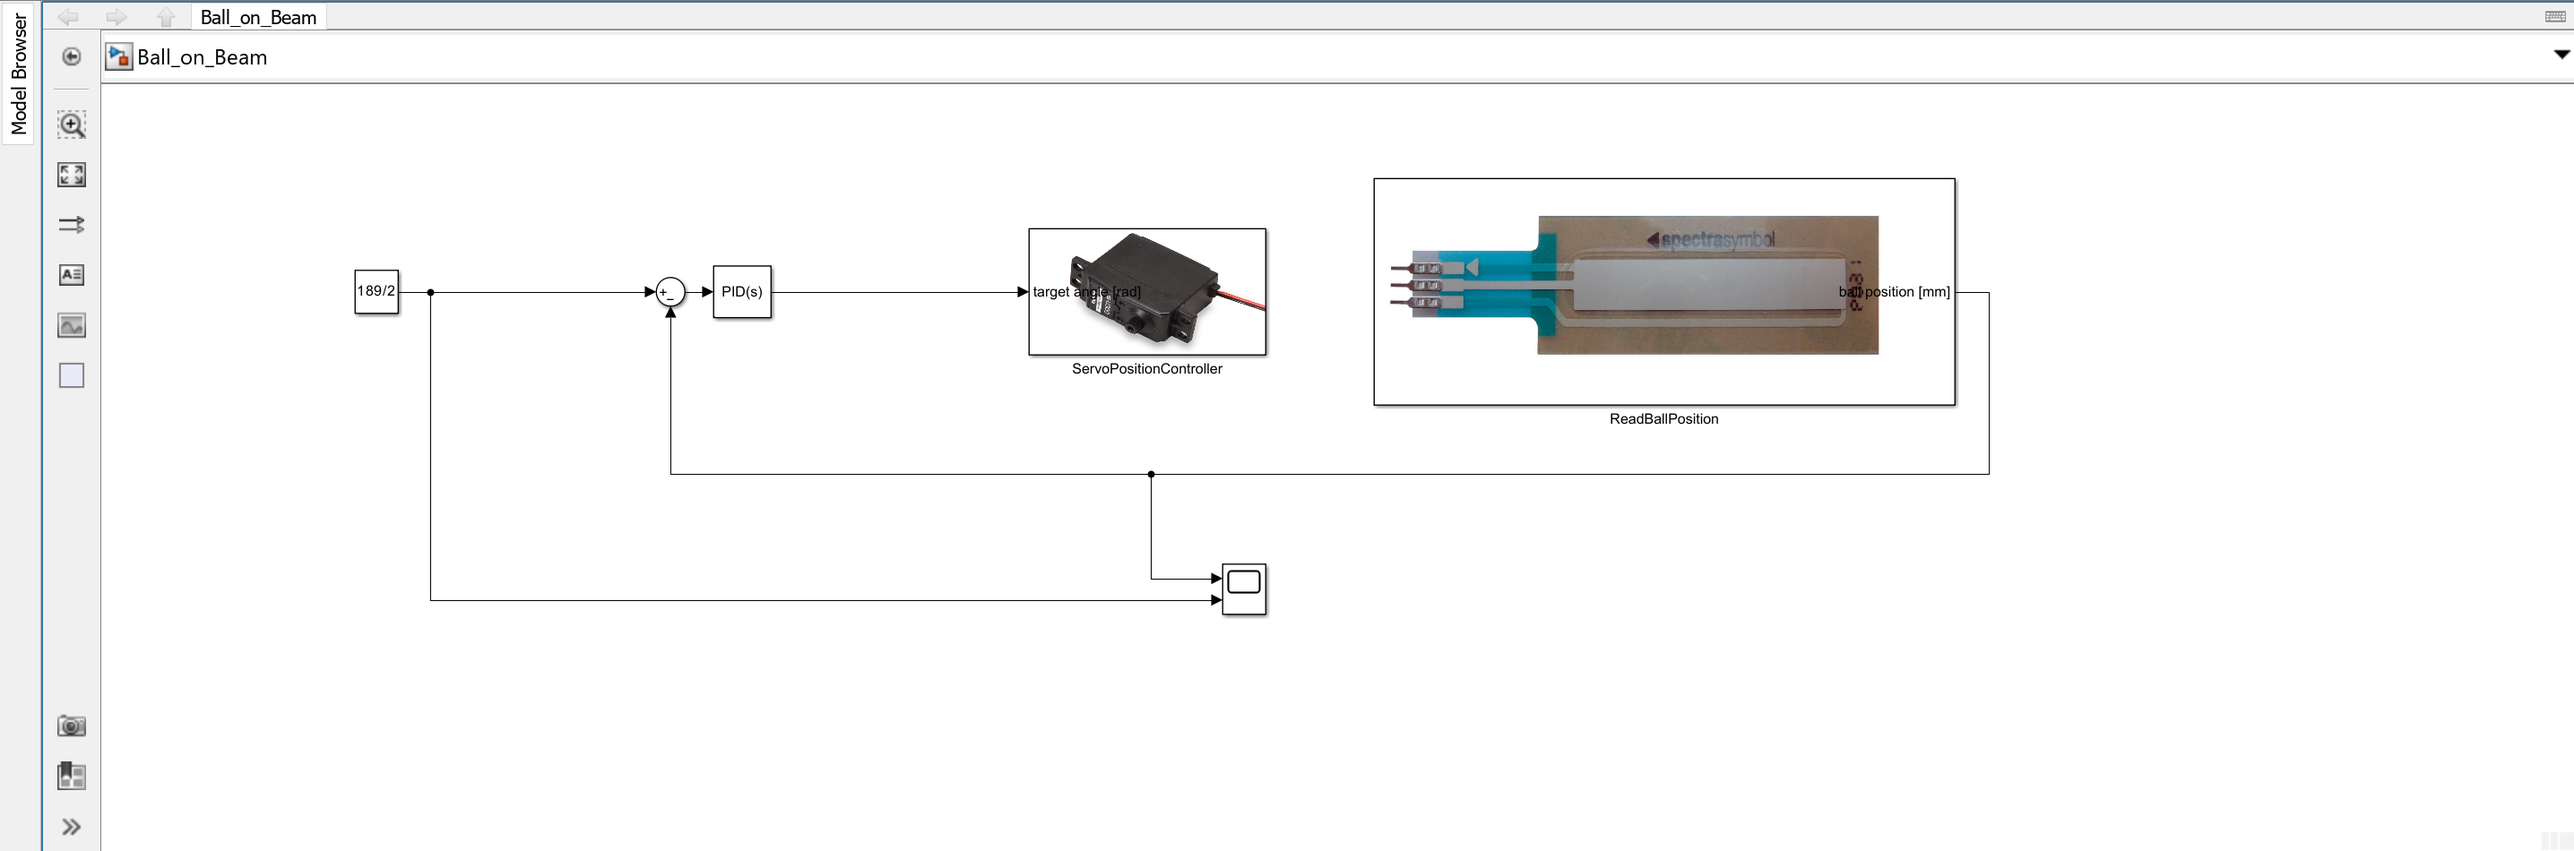
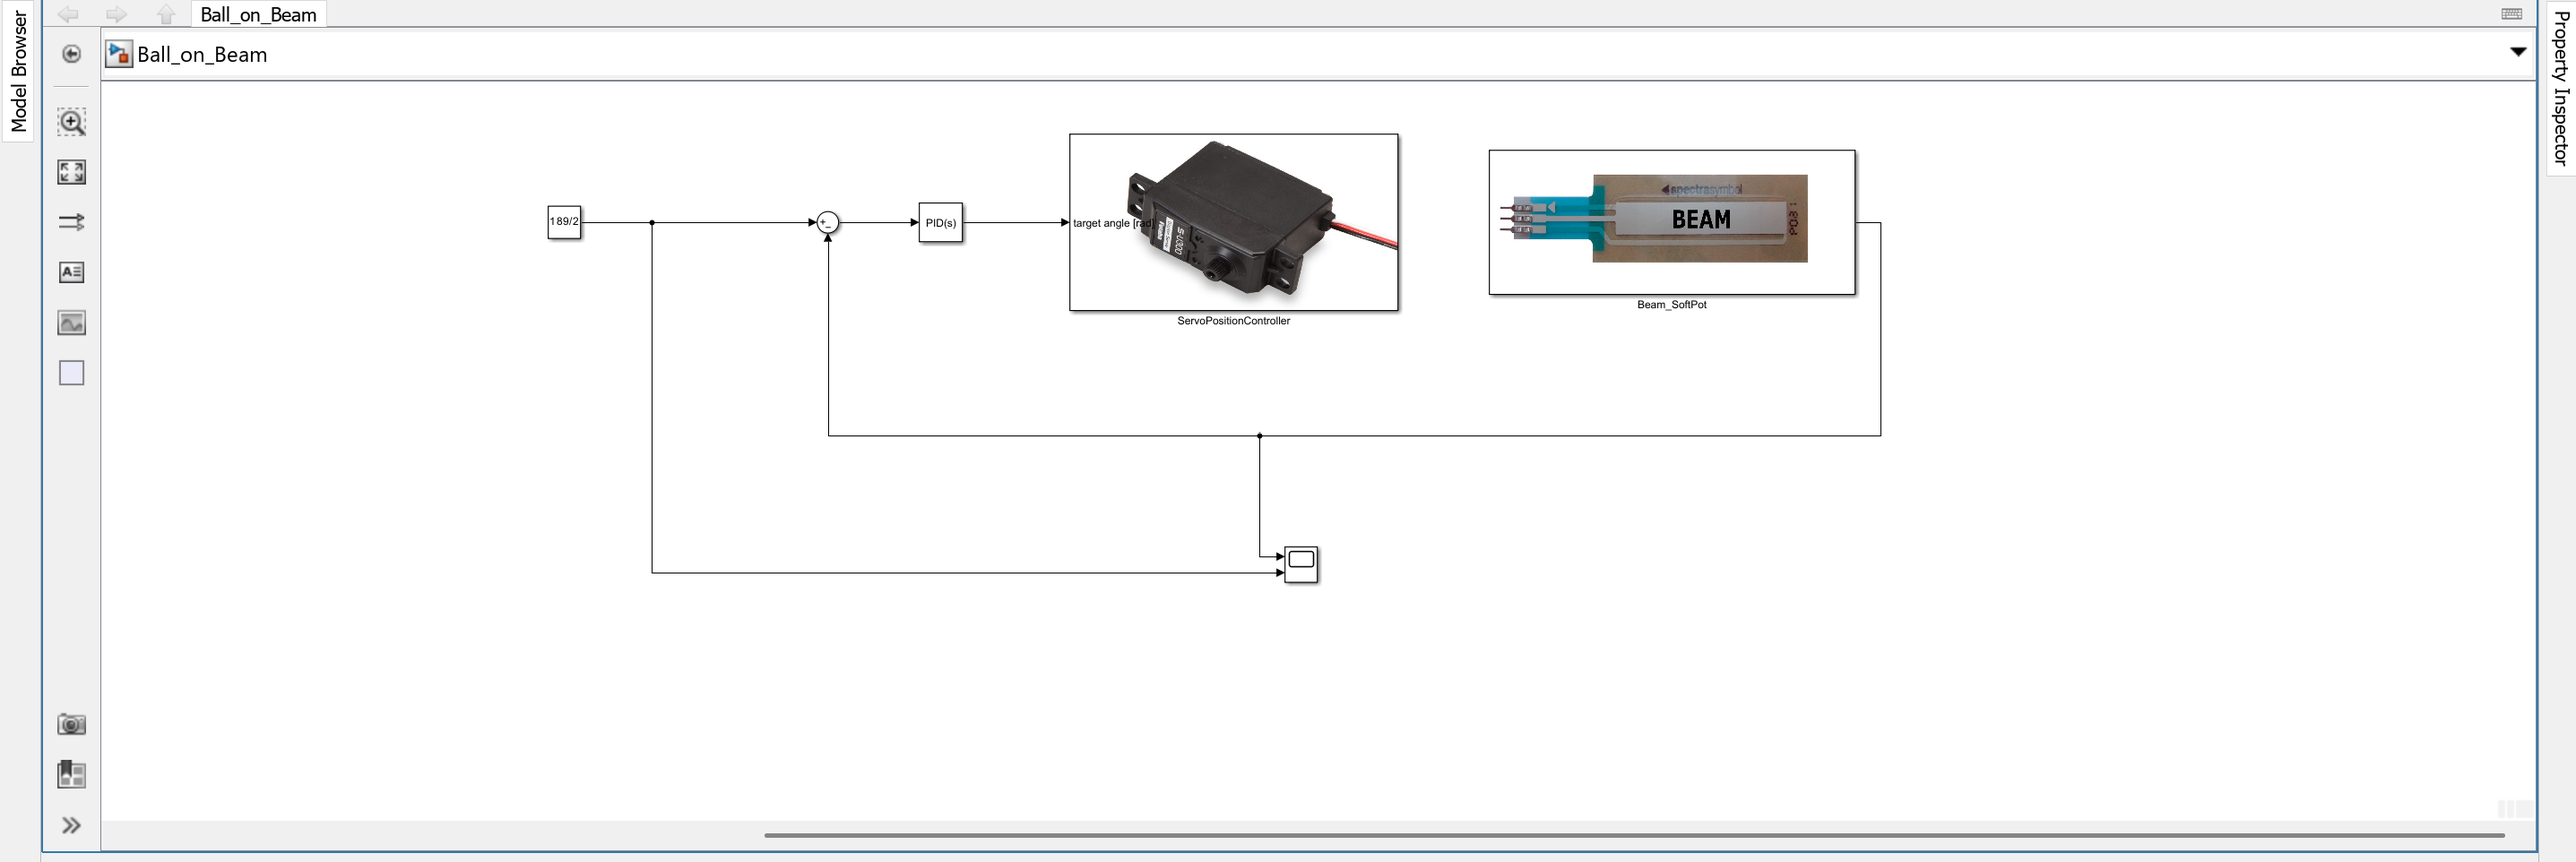
docs: minor changes in text + added images

diff --git a/docs/D_Course_tasks/01_beam_softpot.md b/docs/D_Course_tasks/01_beam_softpot.md
@@ -13,18 +13,18 @@ This task introduces the SoftPot linear position sensor as the primary input for
 > Make sure the sensor is properly fixed on the beam and aligned with the ball path.
 
 ![SoftPot Block Connection](images/softpot_block_calibration.png)
-<center>Calib_SoftPot block connected to Display for calibration</center>
+<center>Calib_Beam_SoftPot block connected to Display for calibration</center>
 
 ---
 
 ## 2. Calibration
 
-- Move the ball to the **far left** of the beam and note the raw ADC value shown in the Scope.
+- Move the ball to the **far left** of the beam and note the raw ADC value shown in the `Display`.
 - Then move the ball to the **far right** and record that value as well.
 - These two values define the sensor's minimum and maximum.
-- Drag the `Read_Ball_Position` block from the custom library into your model.
-- Double click the `Read_Ball_Position` block to set and apply these values as calibration parameters.
-- Connect the output of the `Read_Ball_Position` block to a `Scope`.
+- Drag the `Beam_SoftPot` block from the custom library into your model.
+- Double click the `Beam_SoftPot` block to set and apply these values as calibration parameters.
+- Connect the output of the `Beam_SoftPot` block to a `Scope`.
 
 > The output of the calibration block is now a normalized position signal in millimeters.
 

diff --git a/docs/D_Course_tasks/08_subsystem_control_softpot.md b/docs/D_Course_tasks/08_subsystem_control_softpot.md
@@ -58,7 +58,7 @@ Inside your Simulink model:
 > Try moving the reference ball and observe how the beam adjusts to follow it.
 
 ![Ball tracking second ball](images/dual_ball_tracking_demo.png)
-<center>System tracks the reference ball in real time using PID control</center>
+<center>Scope of system tracking the reference ball in real time using PID control</center>
 
 ---
 
